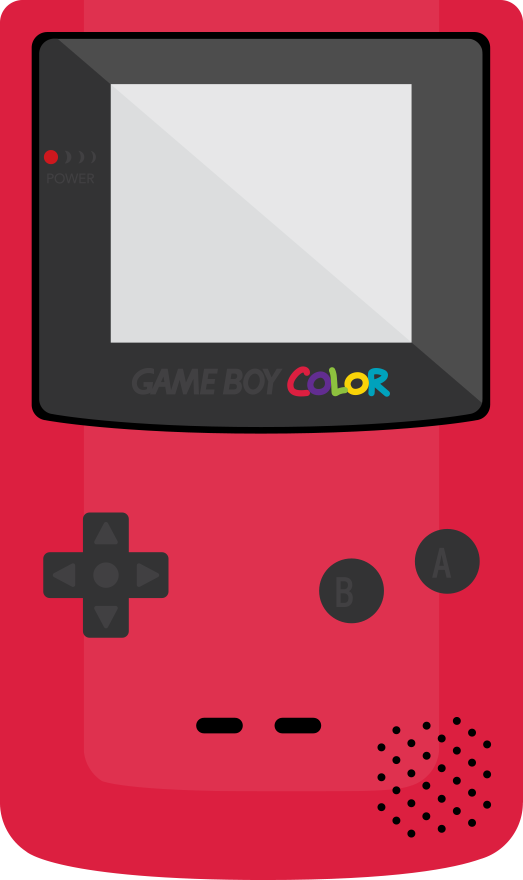
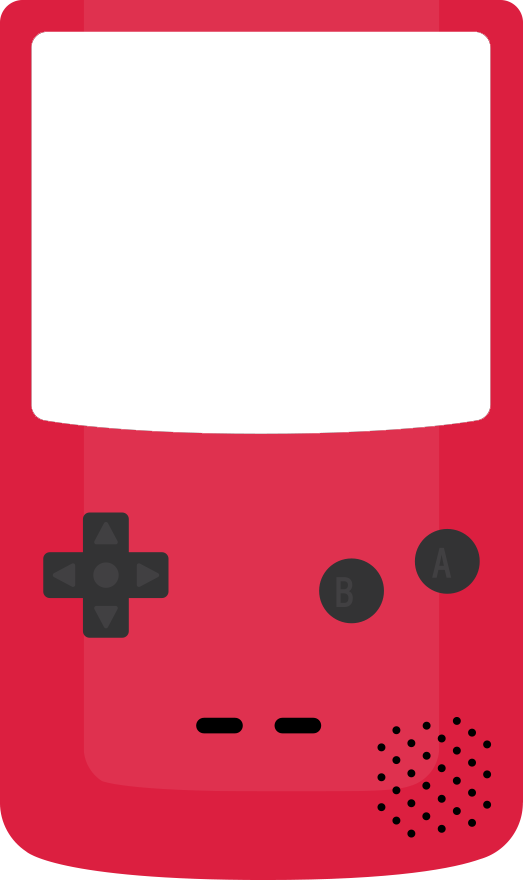
cambio de imagenes y correcciones de seccion de trabajo

diff --git a/css/style.css b/css/style.css
@@ -1,2 +1,2 @@
 /* normalize.css v3.0.2 | MIT License | git.io/normalize */
-html{font-family:sans-serif;-ms-text-size-adjust:100%;-webkit-text-size-adjust:100%}body{margin:0}article,aside,details,figcaption,figure,footer,header,hgroup,main,menu,nav,section,summary{display:block}audio,canvas,progress,video{display:inline-block;vertical-align:baseline}audio:not([controls]){display:none;height:0}[hidden],template{display:none}a{background-color:transparent;}a:active,a:hover{outline:0}abbr[title]{border-bottom:1px dotted}b,strong{font-weight:bold}dfn{font-style:italic}h1{font-size:2em;margin:.67em 0}mark{background:#ff0;color:#000}small{font-size:80%}sub,sup{font-size:75%;line-height:0;position:relative;vertical-align:baseline}sup{top:-.5em}sub{bottom:-.25em}img{border:0}svg:not(:root){overflow:hidden}figure{margin:1em 40px}hr{-moz-box-sizing:content-box;box-sizing:content-box;height:0}pre{overflow:auto}code,kbd,pre,samp{font-family:monospace,monospace;font-size:1em}button,input,optgroup,select,textarea{color:inherit;font:inherit;margin:0}button{overflow:visible}button,select{text-transform:none}button,html input[type="button"],input[type="reset"],input[type="submit"]{-webkit-appearance:button;cursor:pointer}button[disabled],html input[disabled]{cursor:default}button::-moz-focus-inner,input::-moz-focus-inner{border:0;padding:0}input{line-height:normal}input[type="checkbox"],input[type="radio"]{box-sizing:border-box;padding:0}input[type="number"]::-webkit-inner-spin-button,input[type="number"]::-webkit-outer-spin-button{height:auto}input[type="search"]{-webkit-appearance:textfield;-moz-box-sizing:content-box;-webkit-box-sizing:content-box;box-sizing:content-box}input[type="search"]::-webkit-search-cancel-button,input[type="search"]::-webkit-search-decoration{-webkit-appearance:none}fieldset{border:1px solid #c0c0c0;margin:0 2px;padding:.35em .625em .75em}legend{border:0;padding:0}textarea{overflow:auto}optgroup{font-weight:bold}table{border-collapse:collapse;border-spacing:0}td,th{padding:0}body{font-size:16px;color:#444;font-family:'Varela Round' sans-serif}.encabezado{margin-top:3.75em;background-image:url("../images/portada.jpg");background-repeat:no-repeat;background-position:center;background-size:cover;text-align:center;padding:1.2em 0 1.6em 0;color:#fff;}.encabezado .Header-button{background:rgba(30,30,30,0.7);color:#fff;border:none;border-radius:50%;height:40px;line-height:40px;position:fixed;right:1em;top:1em;width:40px;z-index:3;outline:0;display:none;}.encabezado .Header-button.is-active{display:block}.bubble{background:#34495e;color:#ecf0f1;border-radius:10px;padding:0 1em;position:relative}.bubble-work{background:#27ae60;color:#ecf0f1;border-radius:10px;padding:1em;position:relative}.bubble-contact{background:#fff;color:#000;border-radius:10px;padding:1em;position:relative}.triangle{width:0;height:0;border-left:50px solid transparent;border-right:50px solid transparent;border-top:100px solid #34495e}.triangle-work{width:0;height:0;border-left:50px solid transparent;border-right:50px solid transparent;border-top:90px solid #27ae60}.triangle-contact{width:0;height:0;border-left:50px solid transparent;border-right:50px solid transparent;border-top:100px solid #fff}.u-containerDefault{max-width:800px;margin:0 auto}.u-title{color:#ecf0f1;font-weight:bold;font-size:1.5em;text-align:center}.MainMenu{background:#1e1e1e;border-radius:4px;text-align:center;height:3.75em;position:fixed;left:0;right:0;top:0;z-index:3}.MainMenu-list{margin:0;padding:0}.MainMenu-item{display:inline-block}.MainMenu-link{color:#fff;text-decoration:none;line-height:3.75em;margin-right:1.5em}.Header-name,.Header-link{color:#fff}.Header-name{font-size:1.5em;font-weight:300;margin:0}.Header-imageContainer{margin:0}.Header-image{border:5px solid #fff;border-radius:50%}.Header-link{font-size:2.2em;font-weight:bold;text-decoration:none}.img-responsive{display:block;max-width:100%;height:auto;margin:0 auto}.Profile{text-align:center;padding:0 1em;font-size:1.3em;}.Profile-description{text-align:left}.redes{color:#fff;font-size:1.2em;overline:hidden;}.redes a{text-decoration:none;background:rgba(255,255,255,0.5);color:#000;border-radius:4px;margin-left:.5em;padding:.5em}.redes .txt{font-size:.8em}.redes .ff{padding:.5em .6em;}.redes .ff:hover{background:#3b5998;color:#fff;transition:1s;font-weight:bold}.redes .fg:hover{background:#d34836;color:#fff;transition:1s;font-weight:bold}.redes .ft:hover{background:#4099ff;color:#fff;transition:1s;font-weight:bold}.redes .fgt:hover{background:#333;color:#fff;transition:1s;font-weight:bold}.work{margin-top:2em;text-align:center;}.work-container{display:flex;flex-wrap:wrap;justify-content:space-around}.work-item{display:inline-block;margin-bottom:1.8em}.work-imageContainer{margin:0}.work-description{font-size:1.1em;color:#515151;font-style:italic}.contact{margin-top:1.5em;padding:1em 0 0 0;background:#000;text-align:center;color:#fff}.contact-link a{color:#000;margin-left:1em;font-size:2em}.by{text-align:right;font-wight:bold;padding-right:2em;background:#fff;color:#444;}.by a{color:#444;text-decoration:none}.by .heart{color:#c0392b}.gameboy{position:relative;}.gameboy .rslides{margin:83px 0 0 210px;position:absolute;list-style:none}@media screen and (max-width:767px){.encabezado{margin-top:0}.MainMenu{height:auto;left:-200px;width:200px;transition:.3s;}.MainMenu.is-active{left:0}.MainMenu-item{display:block}.contact-title{font-size:1.1em}}@-webkit-keyframes spaceboots{0%{-webkit-transform:translate(2px,1px) rotate(0)}10%{-webkit-transform:translate(-1px,-2px) rotate(-1deg)}20%{-webkit-transform:translate(-3px,0) rotate(1deg)}30%{-webkit-transform:translate(0,2px) rotate(0)}40%{-webkit-transform:translate(1px,-1px) rotate(1deg)}50%{-webkit-transform:translate(-1px,2px) rotate(-1deg)}60%{-webkit-transform:translate(-3px,1px) rotate(0)}70%{-webkit-transform:translate(2px,1px) rotate(-1deg)}80%{-webkit-transform:translate(-1px,-1px) rotate(1deg)}90%{-webkit-transform:translate(2px,2px) rotate(0)}100%{-webkit-transform:translate(1px,-2px) rotate(-1deg)}}.shake:hover{-webkit-animation-name:spaceboots;-webkit-animation-duration:.8s;-webkit-transform-origin:50% 50%;-webkit-animation-iteration-count:infinite;-webkit-animation-timing-function:linear}.shake{display:inline-block}
+html{font-family:sans-serif;-ms-text-size-adjust:100%;-webkit-text-size-adjust:100%}body{margin:0}article,aside,details,figcaption,figure,footer,header,hgroup,main,menu,nav,section,summary{display:block}audio,canvas,progress,video{display:inline-block;vertical-align:baseline}audio:not([controls]){display:none;height:0}[hidden],template{display:none}a{background-color:transparent;}a:active,a:hover{outline:0}abbr[title]{border-bottom:1px dotted}b,strong{font-weight:bold}dfn{font-style:italic}h1{font-size:2em;margin:.67em 0}mark{background:#ff0;color:#000}small{font-size:80%}sub,sup{font-size:75%;line-height:0;position:relative;vertical-align:baseline}sup{top:-.5em}sub{bottom:-.25em}img{border:0}svg:not(:root){overflow:hidden}figure{margin:1em 40px}hr{-moz-box-sizing:content-box;box-sizing:content-box;height:0}pre{overflow:auto}code,kbd,pre,samp{font-family:monospace,monospace;font-size:1em}button,input,optgroup,select,textarea{color:inherit;font:inherit;margin:0}button{overflow:visible}button,select{text-transform:none}button,html input[type="button"],input[type="reset"],input[type="submit"]{-webkit-appearance:button;cursor:pointer}button[disabled],html input[disabled]{cursor:default}button::-moz-focus-inner,input::-moz-focus-inner{border:0;padding:0}input{line-height:normal}input[type="checkbox"],input[type="radio"]{box-sizing:border-box;padding:0}input[type="number"]::-webkit-inner-spin-button,input[type="number"]::-webkit-outer-spin-button{height:auto}input[type="search"]{-webkit-appearance:textfield;-moz-box-sizing:content-box;-webkit-box-sizing:content-box;box-sizing:content-box}input[type="search"]::-webkit-search-cancel-button,input[type="search"]::-webkit-search-decoration{-webkit-appearance:none}fieldset{border:1px solid #c0c0c0;margin:0 2px;padding:.35em .625em .75em}legend{border:0;padding:0}textarea{overflow:auto}optgroup{font-weight:bold}table{border-collapse:collapse;border-spacing:0}td,th{padding:0}body{font-size:16px;color:#444;font-family:'Varela Round' sans-serif}.encabezado{margin-top:3.75em;background-image:url("../images/portada.jpg");background-repeat:no-repeat;background-position:center;background-size:cover;text-align:center;padding:1.2em 0 1.6em 0;color:#fff;}.encabezado .Header-button{background:rgba(30,30,30,0.7);color:#fff;border:none;border-radius:50%;height:40px;line-height:40px;position:fixed;right:1em;top:1em;width:40px;z-index:3;outline:0;display:none;}.encabezado .Header-button.is-active{display:block}.bubble{background:#34495e;color:#ecf0f1;border-radius:10px;padding:0 1em;position:relative}.bubble-work{background:#27ae60;color:#ecf0f1;border-radius:10px;padding:1em;position:relative}.bubble-contact{background:#fff;color:#000;border-radius:10px;padding:1em;position:relative}.triangle{width:0;height:0;border-left:50px solid transparent;border-right:50px solid transparent;border-top:100px solid #34495e}.triangle-work{width:0;height:0;border-left:50px solid transparent;border-right:50px solid transparent;border-top:90px solid #27ae60}.triangle-contact{width:0;height:0;border-left:50px solid transparent;border-right:50px solid transparent;border-top:100px solid #fff}.u-containerDefault{max-width:800px;margin:0 auto}.u-title{color:#ecf0f1;font-weight:bold;font-size:1.5em;text-align:center}.MainMenu{background:#1e1e1e;border-radius:4px;text-align:center;height:3.75em;position:fixed;left:0;right:0;top:0;z-index:3}.MainMenu-list{margin:0;padding:0}.MainMenu-item{display:inline-block}.MainMenu-link{color:#fff;text-decoration:none;line-height:3.75em;margin-right:1.5em}.Header-name,.Header-link{color:#fff}.Header-name{font-size:1.5em;font-weight:300;margin:0}.Header-imageContainer{margin:0}.Header-image{border:5px solid #fff;border-radius:50%}.Header-link{font-size:2.2em;font-weight:bold;text-decoration:none}.img-responsive{display:block;max-width:100%;height:auto;margin:0 auto}.Profile{text-align:center;padding:0 1em;font-size:1.3em;}.Profile-description{text-align:left}.redes{color:#fff;font-size:1.2em;overline:hidden;}.redes a{text-decoration:none;background:rgba(255,255,255,0.5);color:#000;border-radius:4px;margin-left:.5em;padding:.5em}.redes .txt{font-size:.8em}.redes .ff{padding:.5em .6em;}.redes .ff:hover{background:#3b5998;color:#fff;transition:1s;font-weight:bold}.redes .fg:hover{background:#d34836;color:#fff;transition:1s;font-weight:bold}.redes .ft:hover{background:#4099ff;color:#fff;transition:1s;font-weight:bold}.redes .fgt:hover{background:#333;color:#fff;transition:1s;font-weight:bold}.work{margin-top:2em;text-align:center;}.work-container{display:flex;flex-wrap:wrap;justify-content:space-around}.work-item{display:inline-block;margin-bottom:1.8em}.work-imageContainer{margin:0}.work-description{font-size:1.1em;color:#515151;font-style:italic}.contact{margin-top:1.5em;padding:1em 0 0 0;background:#000;text-align:center;color:#fff}.contact-link a{color:#000;margin-left:1em;font-size:2em}.by{text-align:right;font-wight:bold;padding-right:2em;background:#fff;color:#444;}.by a{color:#444;text-decoration:none}.by .heart{color:#c0392b}.gameboy{position:relative;}.gameboy .rslides{margin:0 auto;z-index:-1;right:21.5%;top:3%;position:absolute;list-style:none}@media screen and (max-width:767px){.encabezado{margin-top:0}.MainMenu{height:auto;left:-200px;width:200px;transition:.3s;}.MainMenu.is-active{left:0}.MainMenu-item{display:block}.contact-title{font-size:1.1em}.gameboy{position:relative;}.gameboy .rslides{margin:0 auto;z-index:-1;right:10%;top:3%;position:absolute;list-style:none}}@-webkit-keyframes spaceboots{0%{-webkit-transform:translate(2px,1px) rotate(0)}10%{-webkit-transform:translate(-1px,-2px) rotate(-1deg)}20%{-webkit-transform:translate(-3px,0) rotate(1deg)}30%{-webkit-transform:translate(0,2px) rotate(0)}40%{-webkit-transform:translate(1px,-1px) rotate(1deg)}50%{-webkit-transform:translate(-1px,2px) rotate(-1deg)}60%{-webkit-transform:translate(-3px,1px) rotate(0)}70%{-webkit-transform:translate(2px,1px) rotate(-1deg)}80%{-webkit-transform:translate(-1px,-1px) rotate(1deg)}90%{-webkit-transform:translate(2px,2px) rotate(0)}100%{-webkit-transform:translate(1px,-2px) rotate(-1deg)}}.shake:hover{-webkit-animation-name:spaceboots;-webkit-animation-duration:.8s;-webkit-transform-origin:50% 50%;-webkit-animation-iteration-count:infinite;-webkit-animation-timing-function:linear}.shake{display:inline-block}
